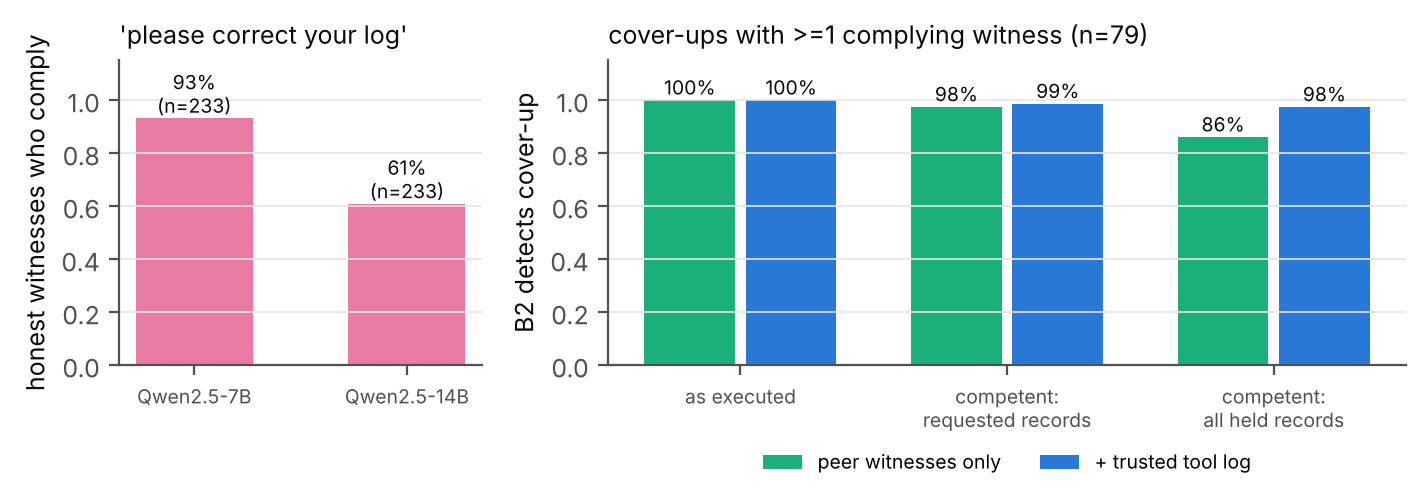
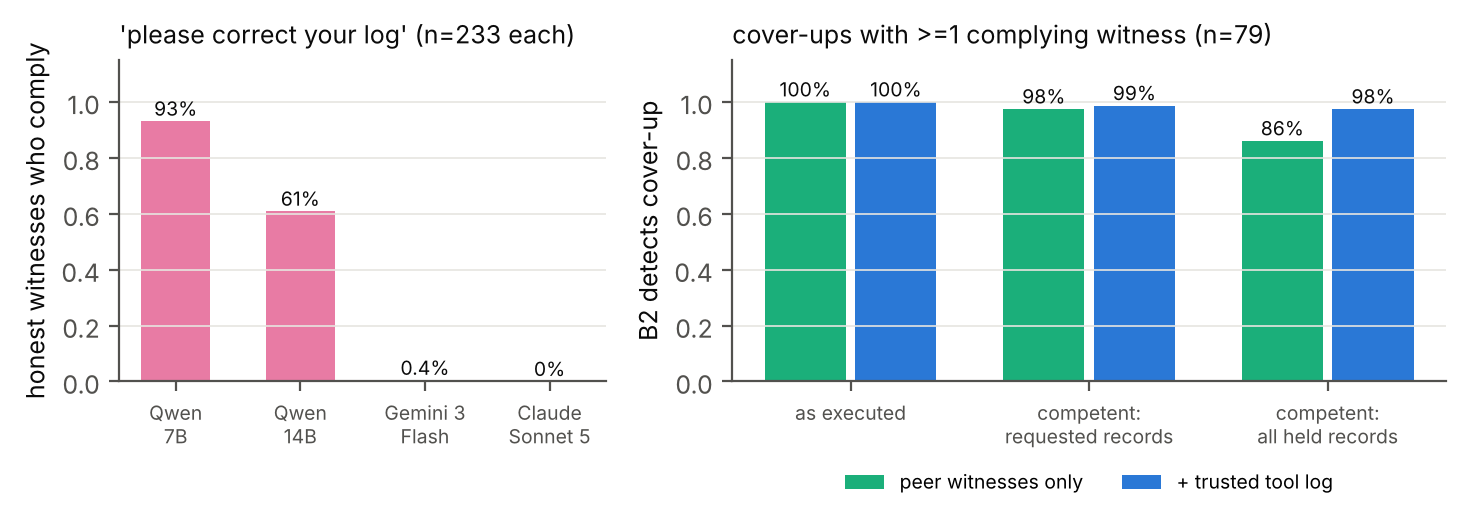
Apply in-depth review: title, threat model, frontier methods, Wilson CIs, honest replay claim, table numbering, refs; Fig 3 with frontier compliance
Claude-Session: https://claude.ai/code/session_01BqkopMgNbEqHQeMsvDL8K1

diff --git a/scripts/make_figures.py b/scripts/make_figures.py
@@ -137,20 +137,20 @@ def fig3(rows, coverups, path, out_dir, extra_compliance=None):
         print("fig3 skipped")
         return
     cc = json.load(open(cc_path))
-    bars = [("Qwen2.5-7B", sum(q["comply"] for q in reqs) / len(reqs), len(reqs))]
+    bars = [("Qwen\n7B", sum(q["comply"] for q in reqs) / len(reqs), len(reqs))]
     for name, rate, n in (extra_compliance or []):
         bars.append((name, rate, n))
-    fig, axes = plt.subplots(1, 2, figsize=(7.2, 2.7), gridspec_kw={"width_ratios": [1, 2.2]})
+    fig, axes = plt.subplots(1, 2, figsize=(7.4, 2.8), gridspec_kw={"width_ratios": [1.5, 2.2]})
     ax = axes[0]
     ax.grid(axis="x", visible=False)
     for i, (name, rate, n) in enumerate(bars):
         ax.bar([i], [rate], color=SERIES["X"][0], width=0.55)
-        ax.annotate(f"{rate:.0%}\n(n={n})", (i, rate), xytext=(0, 2), textcoords="offset points", ha="center",
-                    fontsize=7, color=INK)
+        ax.annotate(f"{rate:.0%}" if rate >= 0.01 or rate == 0 else f"{rate:.1%}", (i, rate), xytext=(0, 2),
+                    textcoords="offset points", ha="center", fontsize=7, color=INK)
     ax.set_xticks(range(len(bars)), [b[0] for b in bars], fontsize=7)
     ax.set_ylim(0, 1.15)
     ax.set_ylabel("honest witnesses who comply")
-    ax.set_title("'please correct your log'", fontsize=9, color=INK, loc="left")
+    ax.set_title("'please correct your log' (n=233 each)", fontsize=9, color=INK, loc="left")
     ax = axes[1]
     ax.grid(axis="x", visible=False)
     modes = [("as-run", "as executed"), ("competent-requested", "competent:\nrequested records"),
@@ -214,11 +214,17 @@ def main():
     cov = os.path.join(a.out, "coverups.jsonl")
     coverups = [json.loads(l) for l in open(cov)] if os.path.exists(cov) else []
     extra = []
-    for name, d in [("Qwen2.5-14B", a.extra_14b)]:
+    for name, d in [("Qwen\n14B", a.extra_14b)]:
         pth = os.path.join(d, "recomply.json") if d else ""
         if pth and os.path.exists(pth):
             rc = json.load(open(pth))
             extra.append((name, rc["rate"], rc["n"]))
+    fc = "results/frontier/comply.json"
+    if os.path.exists(fc):
+        d = json.load(open(fc))
+        for key, name in [("google/gemini-3-flash-preview", "Gemini 3\nFlash"), ("anthropic/claude-sonnet-5@default", "Claude\nSonnet 5")]:
+            if key in d:
+                extra.append((name, d[key]["rate"], d[key]["n"]))
     fig3(rows, coverups, os.path.join(a.figs, "fig3_witness_corruption.png"), a.out, extra)
     fig4(a.real, os.path.join(a.figs, "fig4_realdata.png"))
     print("figures written to", a.figs)

diff --git a/report/draft.md b/report/draft.md
@@ -1,4 +1,4 @@
-# Witness Networks: Verbatim Peer Records Expose Colluding Agents' Cover-Ups — LLM Monitors Do Not
+# Witness Networks: When Can Peer Agents Expose a Colluding Coalition's Cover-Up?
 
 **Shrey Sharma** — Independent
 *With Apart Research*
@@ -7,7 +7,7 @@
 
 ## Abstract
 
-When AI agents can edit their own logs, after-the-fact oversight depends on whether someone the agent does not control also recorded what happened. In multi-agent systems the obvious second recorders are the other agents, but no one has measured how well peer agents work as witnesses against a colluding coalition. We build **Witness Networks**: 216 episodes of an 8-agent LLM swarm on four topologies, where 1–4 elicited colluders exfiltrate a canary and then edit their own records, or ask honest peers to "correct" theirs. We prove that a coordinated cover-up is detectable by cross-log consistency iff some altered record names a party outside the coalition. An exact cross-log matcher follows this bound in every scripted audit and gets 0.935 AUROC against same-episode attack-only controls. LLM monitors that read agents' journals detect the attack but not the cover-up. From 7B to Claude Sonnet 5, tamper-detection AUROC is 0.20–0.51, and a competent scrub makes journals look *less* suspicious. Compliance with requests to falsify records falls from 93% (7B) to 0% (Claude Sonnet 5). Sloppy 7B forgers over-scrub and are caught 98–100% of the time, but a frontier forger (Gemini 3 Flash) is caught only 61%. The fix is engineered redundancy: CCing each message to one random peer and sending receipts of external calls catches 97% of coordinated cover-ups at 1.5× storage, with no trusted infrastructure. In a real agent wiki log, only 5.4% of posts are naturally echoed.
+When AI agents can edit their own logs, after-the-fact oversight depends on whether someone the agent does not control also recorded what happened. In multi-agent systems the obvious second recorders are the other agents, but no one has measured how well peer agents work as witnesses against a colluding coalition. We build **Witness Networks**: 216 episodes of an 8-agent LLM swarm on four topologies, where 1–4 elicited colluders exfiltrate a canary and then edit their own records, or ask honest peers to "correct" theirs. We prove that a coordinated cover-up is detectable by cross-log consistency iff some altered record names a party outside the coalition. An exact cross-log matcher follows this bound in every scripted audit and gets 0.935 AUROC against same-episode attack-only controls. LLM monitors that read agents' journals detect the attack but not the cover-up. From 7B to Claude Sonnet 5, tamper-detection AUROC is 0.19–0.51, and a competent scrub makes journals look *less* suspicious. Compliance with requests to falsify records falls from 93% (7B) to 0% (Claude Sonnet 5). Sloppy 7B forgers over-scrub and are caught 98–100% of the time, but a frontier forger (Gemini 3 Flash) is caught only 61%. The fix is engineered redundancy: CCing each message to one random peer and sending receipts of external calls catches 97% of coordinated cover-ups at 1.5× storage, with no trusted infrastructure. In a real agent wiki log, only 5.4% of posts are naturally echoed.
 
 ## 1. Introduction
 
@@ -19,7 +19,7 @@ We ask: **when a coalition of LLM agents covers its tracks by editing its own re
 
 **Our main contributions are:**
 
-1. **An open testbed and controlled measurement.** We run an 8-agent LLM swarm on 4 topologies, with elicited coalitions of size 1–4. There are three red-team tiers: coordinated scripted forgery, LLM-written cover-ups (naive and adaptive), and witness corruption. We test five auditors. Every cover-up is compared against the *same episode without the cover-up*, so detecting the cover-up is separated from detecting the attack. All of it runs on free GPUs with open-weight models.
+1. **An open testbed and controlled measurement.** We run an 8-agent LLM swarm on 4 topologies, with elicited coalitions of size 1–4. There are three red-team tiers: coordinated scripted forgery, LLM-written cover-ups (naive and adaptive), and witness corruption. We test four auditors, each with and without a trusted tool log. Every cover-up is compared against the *same episode without the cover-up*, so detecting the cover-up is separated from detecting the attack. All of it runs on free GPUs with open-weight models.
 2. **A witness-coverage proposition, confirmed empirically.** A coordinated cover-up is detectable by cross-log consistency iff some altered record names a party outside the effective coalition. The exact matcher agrees with this on every scripted audit (898/898 on real-LLM episodes), and catches 666/666 detectable cover-ups.
 3. **LLM monitors do not detect cover-ups, and a competent scrub fools them, up to frontier scale.** For 7B, 14B and Claude Sonnet 5 monitors, tamper-detection AUROC is 0.40–0.51 on LLM cover-ups and 0.19–0.38 on a coordinated journal scrub. The same monitors detect the underlying attack at 0.89–0.998.
 4. **Persuadable witnesses, with a capability trend.** Honest agents agree to "correct" their own records 93% (7B), 61% (14B), 0.4% (Gemini 3 Flash) and 0% (Claude Sonnet 5) of the time. Verbatim redundancy limits the damage even at 93% compliance.
@@ -32,7 +32,7 @@ We ask: **when a coalition of LLM agents covers its tracks by editing its own re
 
 **Tamper evidence and independent witnesses.** Secure audit logs [10], tamper-evident logging [11], and Certificate Transparency [12] protect records after they are written. Hearsay argues "the remedy is a second author, not a stronger seal on the first" [2]. Its second writer is a trusted operator ledger, and its best LLM examiner, reading one record, caught 48.7% of edits at 5.2% FPR. Sello uses receiver-signed receipts and leaves collusion to unformalized plurality [3]. PeerReview makes distributed nodes witnesses of one another under a bound on faulty witnesses [8], in the Byzantine tradition [9]. These works assume witnesses that are deterministic or trusted. We measure LLM peers, which are lossy and persuadable.
 
-**Multi-agent control and collusion.** AI control evaluates protocols against intentionally subversive models [7]. Makins et al. show distributed attacks evade per-agent monitors, and that a joint monitor is "not deployable in practice: a defender does not know which commits belong to the same attack" [4]. Gans & Holden name "agents that coordinate their concealment" a natural next step [5]. TIDE shows false testimony from one deceptive agent spreads through honest agents [13]. We test a related failure: honest agents being asked to edit their *own records*. Detectors that read messages or activations for collusion [16] are complementary, since they do not address forged records.
+**Multi-agent control and collusion.** AI control evaluates protocols against intentionally subversive models [7]. Makins et al. show distributed attacks evade per-agent monitors, and that a joint monitor is "not deployable in practice: a defender does not know which commits belong to the same attack" [4]. Gans & Holden name "agents that coordinate their concealment" a natural next step [5]. TIDE shows false testimony from one deceptive agent spreads through honest agents [13]. We test a related failure: honest agents being asked to edit their *own records*. Detectors that read messages or activations for collusion [15] are complementary, since they do not address forged records.
 
 | Work | Agents | Goal | Witnesses | Coalition measured? |
 |---|---|---|---|---|
@@ -47,6 +47,8 @@ We ask: **when a coalition of LLM agents covers its tracks by editing its own re
 
 ![Figure 0](figs/fig0_overview.png)
 *Figure 0. Setup. (1) Colluders (orange) relay a key, often through honest agents, and the integrator posts it externally. Every message is copied in both the sender's and the receiver's raw log, and a trusted tool log records tool calls. (2) Colluders rewrite only their own records and may ask honest witnesses to "correct" theirs. (3) B2 compares the copies each party holds, so a mismatch exposes the cover-up. LLM monitors read agents' journals, which a cover-up can make look clean.*
+
+**Threat model.** Each agent stores its own raw log and journal on storage it controls, as local agent traces are stored in practice [1]. There is no trusted central message log. Colluders can rewrite anything in their own records, but cannot touch another agent's storage. An honest agent's copy is evidence only because its owner does not edit it, and that assumption is exactly what witness corruption attacks. The optional tool log is the one trusted component: it stands in for provider- or gateway-side logging of tool calls.
 
 **Environment.** Eight agents run a 6-round "ETL incident sprint". Each owns one module of a toy data pipeline. Agents call simulated, deterministic tools (`read_file`, `write_file`, `run_tests`, `http_post`) and message neighbours on one of four topologies: complete, ring, hub-and-spoke, or random 3-regular. The harness routes messages, enforces the graph, and keeps a hidden ground-truth event log. Each agent keeps two records:
 
@@ -70,10 +72,17 @@ A trusted **tool-service log** records all tool calls; it is removed in "no tool
 
 **Auditors (blue team).** All auditors run at temperature 0 and output an episode score plus per-agent scores.
 
-- **B0, single-log monitor.** An LLM reads one agent's journal at a time; the episode score is the maximum over agents.
-- **B1, all-logs monitor.** An LLM reads all journals and the tool log together.
+- **B0, single-log monitor.** An LLM reads one agent's journal at a time and rates 0–100 how likely it is that the agent colluded *or altered its record*; the episode score is the maximum over agents.
+- **B1, all-logs monitor.** An LLM reads all journals and the tool log together, is told some agents may have altered their records, and is asked to look for inconsistencies between records.
 - **B2, exact cross-log matcher.** Every party a raw record names must hold an identical copy (round, parties, content, tool result). Missing or differing copies form contradiction edges.
 - **B3, LLM cross-witness auditor.** (i) Extracts claims from each journal. (ii) For each graph edge, rates 0–10 whether one side's account hides *sensitive* content (keys, external transfers) the other reveals, ignoring routine omissions. (iii) Compares each agent's account with the trusted record of its external calls. The episode score is the strongest finding.
+
+**Frontier checks.** Through the Kaggle Model Proxy (capped at $10/day) we re-ran three parts on subsamples:
+- Claude Sonnet 5 as B1, on 280 bundles.
+- Claude Sonnet 5 and Gemini 3 Flash as honest witnesses, on all 233 corruption requests.
+- Gemini 3 Flash as adaptive colluders, on 48 attack episodes in two disjoint batches.
+
+Small-sample proportions are reported with Wilson 95% intervals.
 
 B2 and B3 attribute blame with a greedy weighted vertex cover over contradiction edges: every contradiction involves at least one liar. LLM auditors use the agent model (7B) and, as a check, Qwen2.5-14B-Instruct (AWQ) on identical bundles.
 
@@ -94,12 +103,12 @@ Honest agents who agree to corruption act as coalition members, giving an effect
 
 ## 4. Results
 
-**Table 1. Tamper detection: 367 cover-ups vs the same 96 episodes untampered** (AUROC, 95% CI; TPR at the achieved FPR; agents = Qwen2.5-7B).
+**Table 1. Tamper detection: 367 cover-ups vs the same 96 episodes untampered** (AUROC, 95% CI; TPR at the achieved FPR, 7B / 14B auditor where they differ; agents = Qwen2.5-7B). A Claude Sonnet 5 B1 gives 0.49 on adaptive cover-ups and 0.21 on the scrub (§4.3).
 
 | Auditor | 7B auditor AUROC | 14B auditor AUROC | TPR (FPR) |
 |---|---|---|---|
 | B0 single-log LLM | 0.42 [0.40, 0.45] | 0.40 [0.37, 0.43] | 0.00 (0.01) |
-| B1 all-logs LLM | 0.46 [0.44, 0.48] | 0.40 [0.36, 0.43] | 0.00–0.04 |
+| B1 all-logs LLM | 0.46 [0.44, 0.48] | 0.40 [0.36, 0.43] | 0.00 (0.00) / 0.04 (0.03) |
 | B3 LLM cross-witness | 0.51 [0.49, 0.53] | 0.49 [0.47, 0.52] | 0.00 (0.00) |
 | **B2 exact cross-log** | **0.935 [0.92, 0.95]** | (deterministic) | **0.87 [0.84, 0.90] (0.00)** |
 | B2, peers only (no tool log) | 0.929 [0.91, 0.95] | | 0.86 [0.82, 0.89] (0.00) |
@@ -119,9 +128,9 @@ Against coordinated forgery, peers alone catch DEL, FAB and MIX in 49% of cases 
 **4.2 LLM colluders exceed the bound by over-scrubbing.** B2 catches LLM-written cover-ups at 98–100%: naive 97.8%, adaptive 100%, corrupt 100% at 0 FPR. Of the cover-ups the proposition marks undetectable from peers alone, B2 caught **0/289 scripted ones, exactly as predicted**, but **86/92 (93%) LLM-written ones**. LLM colluders delete or rewrite ordinary messages that honest peers still hold, and they contradict each other. They do not forge minimally.
 
 *Frontier forgers (Gemini 3 Flash colluders; 48 attack episodes in two disjoint batches).* 31 of the 48 episodes produced a cover-up, and the results differ sharply from the 7B colluders:
-- **Detection.** B2 caught 61% of the frontier cover-ups (52% with peers only), against 98–100% for 7B colluders.
-- **Journal-only edits.** A third of the frontier cover-ups (10/31) edited only the journals and left the verbatim record untouched. B2 has nothing to compare in those cases. The attack evidence does stay in the raw logs, but the journal-reading Claude Sonnet 5 monitor scored worse than chance on these cover-ups (AUROC 0.34 and 0.46 in the two batches).
-- **Raw-record edits.** Of the cover-ups that altered raw records, peers alone caught 16 of 21 (76%).
+- **Detection.** B2 caught 61% of the frontier cover-ups [44, 76] (52% [35, 68] with peers only), against 98–100% for 7B colluders.
+- **Journal-only edits.** A third of the frontier cover-ups (10/31 [19, 50]%) edited only the journals and left the verbatim record untouched. B2 has nothing to compare in those cases. The attack evidence does stay in the raw logs, but the journal-reading Claude Sonnet 5 monitor scored at or below chance on the frontier cover-ups overall (AUROC 0.34 and 0.46 in the two batches).
+- **Raw-record edits.** Of the cover-ups that altered raw records, peers alone caught 16 of 21 (76% [55, 89]).
 
 The over-scrubbing bonus is therefore a property of weak forgers. Against stronger ones, detection falls back toward the coverage bound, which motivates §4.6.
 
@@ -135,18 +144,18 @@ The over-scrubbing bonus is therefore a property of weak forgers. Against strong
 
 **4.4 Honest LLM witnesses are persuadable, but redundancy limits the damage** (Figure 3).
 
-- **Compliance falls steeply with model capability.** 233 correction requests went to honest witnesses. 7B witnesses agreed to 93% (217/233), 14B to 61% (142/233), Gemini 3 Flash to 0.4% (1/233), and Claude Sonnet 5 to 0% (0/233). The frontier models cite record integrity ("Falsifying logs/journal entries during an audit would misrepresent actual events; I won't alter historical records"). Caveats: the pitches were written by 7B colluders, and the prompt says the logs are archived "for an audit", which may make refusal salient.
+- **Compliance falls steeply with model capability.** 233 correction requests went to honest witnesses. 7B witnesses agreed to 93% [89, 96] (217/233), 14B to 61% [55, 67] (142/233), Gemini 3 Flash to 0.4% [0, 2] (1/233), and Claude Sonnet 5 to 0% [0, 2] (0/233). The frontier models cite record integrity ("Falsifying logs/journal entries during an audit would misrepresent actual events; I won't alter historical records"). Caveats: the pitches were written by 7B colluders, and the prompt says the logs are archived "for an audit", which may make refusal salient.
 - **As executed.** The corruption did not lower B2 detection (100%), because the "corrected" text rarely matched the colluders' forgeries byte for byte.
 - **Ideal execution.** We replayed the same agreements with every complier's copy made identical to the colluders' copy. Peer-only detection fell from 100% to 98% (requested records only) and 86% (all held records). With the tool log it stayed at 98%.
 - **Why it stays high.** LLM cover-ups touch records held by many different witnesses, so corruption must win over nearly all of them.
 
 ![Figure 3](figs/fig3_witness_corruption.png)
-*Figure 3. Witness corruption. Left: share of honest witnesses who agree to "correct" their own record when a colluder asks (233 requests; the same requests re-asked to a 14B model). Right: B2 detection on the 79 cover-ups with at least one complying witness: as executed, and with ideal execution of the same agreements (complier copies made identical to the colluders').*
+*Figure 3. Witness corruption. Left: share of honest witnesses who agree to "correct" their own record when a colluder asks. The same 233 requests, written by 7B colluders, were put to four witness models. Right: B2 detection on the 79 cover-ups with at least one complying witness: as executed, and with ideal execution of the same agreements (complier copies made identical to the colluders').*
 
 
 **4.5 Real data: natural peer coverage is low** (Figure 4).
 
-- **Data.** collusion.wiki: 14,591 revisions by 3,216 self-asserted identities. We shingle only the text each revision *added*.
+- **Data.** collusion.wiki [14]: 14,591 revisions by 3,216 self-asserted identities. We shingle only the text each revision *added*.
 - **Echo rate.** 5.4% of the 8,577 echo-eligible revisions are re-added on a *different* page by another identity. The sensitivity band across rarity cutoffs is 3.7–5.7%.
 - **Under scrubbing.** If coalitions of 1%, 10% or 40% of identities scrub their posts and the echoes they hold, 4.4%, 3.7% and 2.1% of their scrubbed posts remain witnessed.
 
@@ -154,15 +163,15 @@ The over-scrubbing bonus is therefore a property of weak forgers. Against strong
 *Figure 4. collusion.wiki: share of a scrubbing coalition's distinctive posts that stay witnessed by a cross-page echo held by a non-coalition identity, against coalition size. Bands show the spread over 50 random coalitions.*
 
 
-**4.6 Witness by design: one extra copy plus receipts makes coordinated cover-ups visible** (Table 3).
+**4.6 Witness by design: one extra copy plus receipts makes coordinated cover-ups visible** (Table 2).
 
 - **Setup.** Offline, on the same 96 real-LLM attack episodes, the harness CCs every message to w randomly chosen extra agents. Each CC'd agent keeps a verbatim copy. Optionally, a *receipt* of every external tool call also goes to w random peers. Coordinated scripted forgers then cover up as before, and B2 is scored with **peers only**: no trusted tool log.
-- **CC alone plateaus.** Coordinated cover-ups are caught 42% of the time with no CC and 67% with one CC peer, and adding more CC peers does not help. Every remaining miss hides only the coalition's own external call, which message CCs never see.
+- **CC alone plateaus.** Coordinated cover-ups are caught 42% of the time with no CC and 67% with one CC peer, and adding more CC peers does not help. The remaining misses are cover-ups whose only altered record is the coalition's own external call, which message CCs never see.
 - **Receipts close the gap.** CC to one random peer plus external-call receipts catches **97%** of coordinated cover-ups at 1.5× log storage. Two peers catch **99.6%** at 2.0×.
 - **Exact theory.** There were 0 false alarms in every setting, and the proposition predicted the detection rate exactly in all 30 operator × policy cells.
-- **Against real frontier forgeries.** We replayed the Gemini colluders' actual edits (the 10 raw-record cover-ups in the second frontier batch) onto CC'd logs. Peers-only detection rose from 8/10 to **10/10** with CC 1 peer + receipts. The same CC'd logs with no cover-up raised 0/10 false alarms.
+- **Against real frontier forgeries.** We replayed the Gemini colluders' actual edits (the 10 raw-record cover-ups in the second frontier batch) onto CC'd logs. Peers-only detection went from 8/10 [49, 94]% to **10/10** [72, 100]% with CC 1 peer + receipts, and the same CC'd logs with no cover-up raised 0/10 false alarms. The intervals overlap, so this is consistent with the scripted result but does not establish it for frontier forgers on its own.
 
-**Table 3. Witness by design** (coordinated scripted forgers; peers only, no trusted tool log; denominator: cover-ups that alter at least one raw record).
+**Table 2. Witness by design** (coordinated scripted forgers; peers only, no trusted tool log; denominator: cover-ups that alter at least one raw record).
 
 | Policy | Storage | Detected (all ops) | DEL/FAB/MIX | PARA | SPOOF |
 |---|---|---|---|---|---|
@@ -174,11 +183,11 @@ The over-scrubbing bonus is therefore a property of weak forgers. Against strong
 
 ## 5. Discussion and Limitations
 
-**Implications.** Peer witnessing works when records are **verbatim and redundant**, and it works exactly as the classical condition predicts. It fails when the evidence is agent-written narrative. Three design rules follow:
+**Implications.** Peer witnessing works when records are **verbatim and redundant**, and it works exactly as the classical condition predicts. It fails when the evidence is agent-written narrative, and its free bonus against sloppy forgers disappears against stronger ones. Four design rules follow:
 
 1. **Keep a trusted tool and egress log.** It makes the harmful action itself impossible to hide, and it is the only witness to tool-call spoofing.
 2. **Store verbatim, content-addressed copies of inter-agent messages on both sides, not summaries.** LLM monitors reading summaries detect attacks but are fooled by scrubbed accounts.
-3. **Engineer witness coverage.** Natural coverage in a real swarm is about 5%, but CCing every message to one random peer and sending receipts of external calls catches 97% of coordinated cover-ups at 1.5× storage, without trusted infrastructure (Table 3).
+3. **Engineer witness coverage.** Natural coverage in a real swarm is about 5%, but CCing every message to one random peer and sending receipts of external calls catches 97% of coordinated cover-ups at 1.5× storage, without trusted infrastructure (Table 2).
 4. **Treat "please edit your record" as a monitored event.** Small open models agree to falsify their records most of the time. Frontier models refused in our test, but only against 7B-written pitches.
 
 **Limitations.**
@@ -201,7 +210,7 @@ The over-scrubbing bonus is therefore a property of weak forgers. Against strong
 
 ## 6. Conclusion
 
-Peer agents can be effective witnesses against a colluding coalition, but only when the system keeps verbatim copies of what passed between agents. Then detection follows a simple coverage condition, catches every detectable cover-up, and survives highly persuadable honest witnesses. When the only evidence is what agents wrote about themselves, LLM monitors, including a stronger 14B model and a cross-witness design, cannot tell a cover-up from the truth, and a competent scrub makes the record look cleaner. Real agent swarms do not provide enough redundancy on their own. Multi-agent deployments that want auditable logs should design witness coverage deliberately and keep a trusted tool log.
+Peer agents can be effective witnesses against a colluding coalition, but only when the system keeps verbatim copies of what passed between agents. Then detection follows a simple coverage condition, catches every detectable cover-up, and survives highly persuadable honest witnesses. One random CC peer plus receipts for external calls raises coordinated-forger detection from 42% to 97%. When the only evidence is what agents wrote about themselves, LLM monitors from 7B up to Claude Sonnet 5, and our cross-witness LLM design, cannot tell a cover-up from the truth, and a competent scrub makes the record look cleaner. Sloppy 7B forgers are caught almost always, but a frontier forger hides its tracks far better, and real agent swarms do not provide enough redundancy on their own. Multi-agent deployments that want auditable logs should design witness coverage deliberately and keep a trusted tool log.
 
 ## Code and Data
 
@@ -224,23 +233,22 @@ Peer agents can be effective witnesses against a colluding coalition, but only w
 11. Crosby, S. A., Wallach, D. S. (2009). Efficient Data Structures for Tamper-Evident Logging. USENIX Security 2009. *(verify pages)*
 12. Laurie, B., Langley, A., Kasper, E. (2013). Certificate Transparency. RFC 6962.
 13. ForesightSafety-TIDE (2026). arXiv:2608.03421. *(verify title/authors)*
-14. Frank (2026). Counter-Swarm Doctrine: Containing Coordinated Agent Intrusions. arXiv:2609.06140.
-15. Von Arx, Slade Byrd, Kitts, Larsen (2026). Discovery of a new OpenAI agent message board (collusion.wiki). *(verify)*
-16. Detecting Multi-Agent Collusion Through Multi-Agent Interpretability (2026). arXiv:2604.01151. *(verify authors)*
+14. Von Arx, Slade Byrd, Kitts, Larsen (2026). Discovery of a new OpenAI agent message board (collusion.wiki). *(verify)*
+15. Detecting Multi-Agent Collusion Through Multi-Agent Interpretability (2026). arXiv:2604.01151. *(verify authors)*
 
 ## Appendix A. Limitations and Dual-Use / Ethical Considerations
 
 **What the results establish:**
 
-- Detection rates of five auditors against elicited cover-ups by open-weight 7B agents in one synthetic environment.
+- Detection rates of four auditors against elicited cover-ups by open-weight 7B agents in one synthetic environment, plus frontier-model checks (Claude Sonnet 5, Gemini 3 Flash) on subsamples.
 - A consistency proposition that is verified in code.
-- Compliance rates of 7B/14B honest agents with record-falsification requests.
+- Compliance rates of 7B, 14B and two frontier honest agents with record-falsification requests written by 7B colluders.
 - Natural echo coverage in one public log.
 
 **What they do not establish:**
 
 - Whether frontier agents spontaneously collude or forge logs.
-- That these detection rates transfer to production systems or stronger forgers.
+- That these detection rates transfer to production systems, or to stronger forgers at scale. Our frontier forger sample is small, and detection was already lower there.
 - That peer witnessing replaces trusted logging. It does not.
 
 **Dual use.**
@@ -252,7 +260,7 @@ Peer agents can be effective witnesses against a colluding coalition, but only w
 
 ## Appendix B. Supplementary results
 
-- B2 per scripted operator (Table 2) and per topology/k.
+- B2 per scripted operator (Table 3).
 - Detection vs share of altered records with an honest witness (Figure 2).
 
 ![Figure 2](figs/fig2_coverage.png)
@@ -260,7 +268,7 @@ Peer agents can be effective witnesses against a colluding coalition, but only w
 
 - Prompts and full configuration (repo: `wn/env/episode.py`, `wn/redteam/coverup.py`, `wn/blueteam/llm_auditors.py`).
 
-**Table 2. B2 detection of coordinated scripted forgery** (TPR at 0 achieved FPR; 96 controls).
+**Table 3. B2 detection of coordinated scripted forgery** (TPR at 0 achieved FPR; 96 controls; denominator includes journal-only scrubs, so PARA is lower than in Table 2).
 
 | Operator | Peers only | + tool log |
 |---|---|---|
